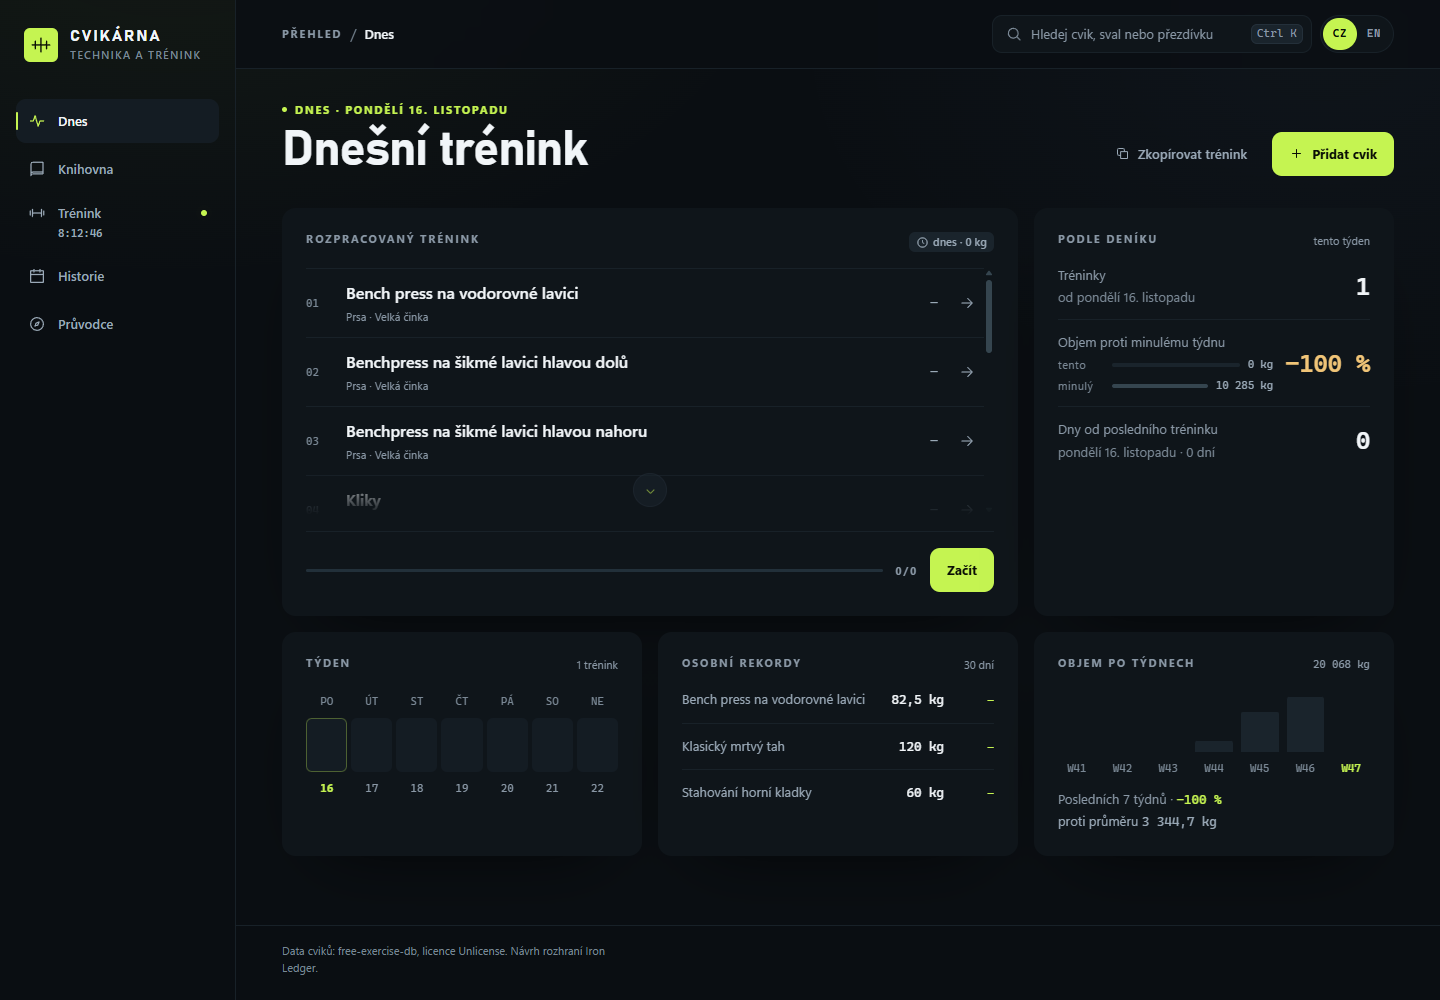
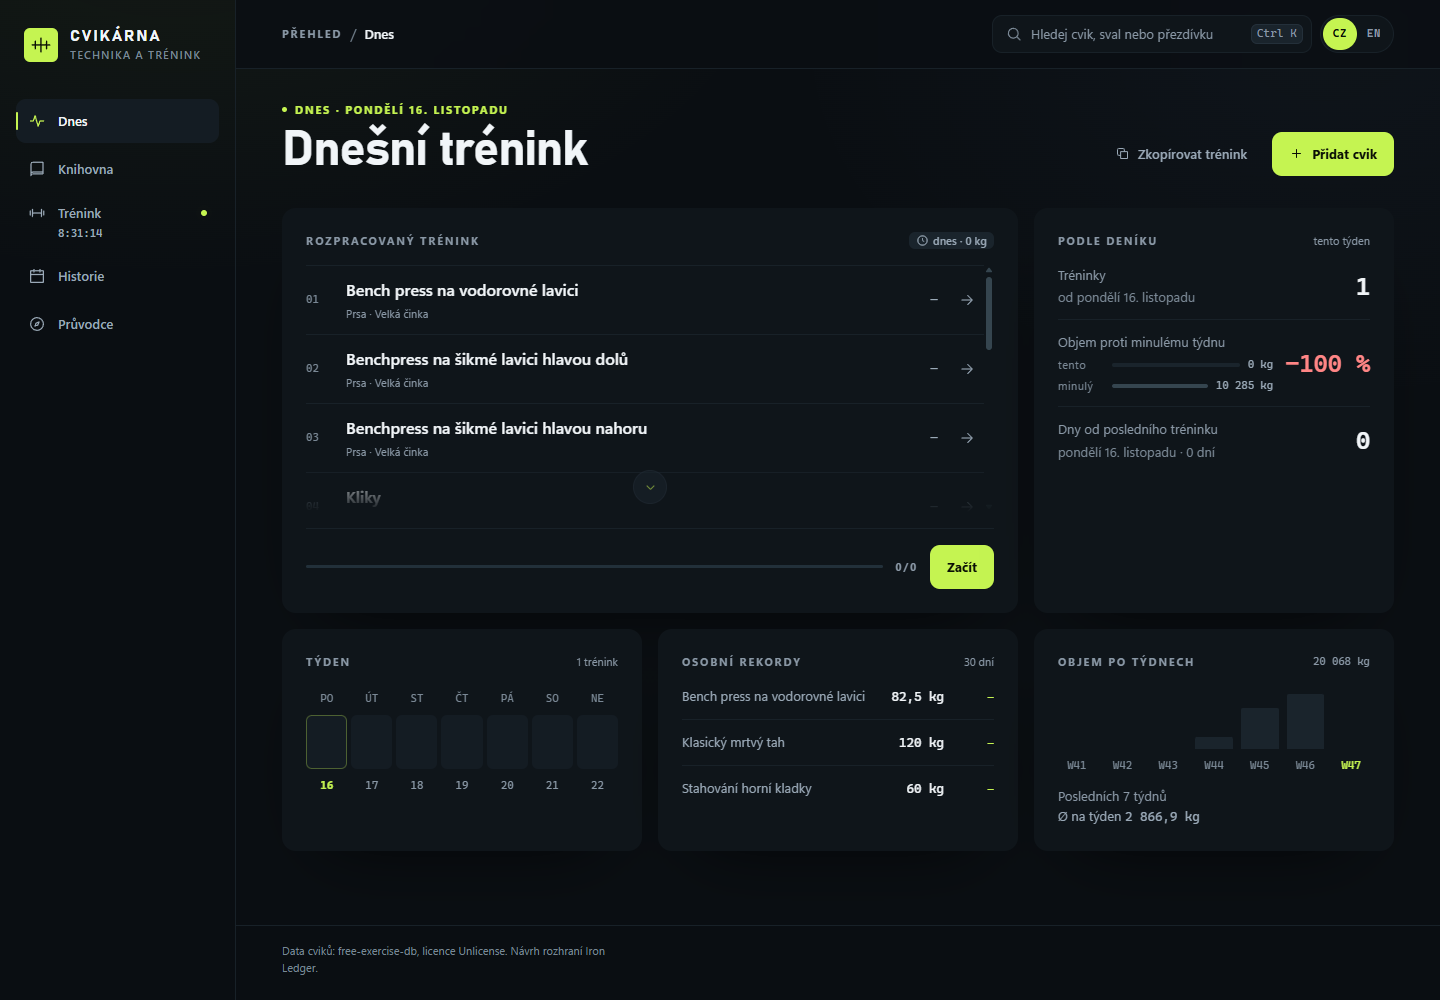
feat: settle the Dnes metrics and the month surface
- Drop the duplicate week-over-week delta from the volume panel; it carries the total and the average week instead
- Tint the one remaining delta from accent through amber to danger as it falls
- Centre the session head's volume pill on its label
- Paint the month list on the panel surface so empty months stop looking overlaid
- Give the dashboard tips focus parity and clear them on unmount

diff --git a/web/src/features/dashboard/DashboardPage.tsx b/web/src/features/dashboard/DashboardPage.tsx
@@ -78,20 +78,29 @@ export function DashboardPage() {
   const weeks = dashboard?.weeklyVolume ?? [];
   const maxVolume = Math.max(...weeks.map((row) => row.volume), 1);
   const weekTotal = weeks.reduce((sum, row) => sum + row.volume, 0);
-  const lastWeek = weeks[weeks.length - 1];
-  const previousAverage =
-    weeks.length > 1
-      ? weeks.slice(0, -1).reduce((sum, row) => sum + row.volume, 0) / (weeks.length - 1)
-      : 0;
-  const weekAverage = previousAverage;
-  const volumeDelta =
-    previousAverage > 0 && lastWeek ? ((lastWeek.volume - previousAverage) / previousAverage) * 100 : null;
   const delta =
     dashboard && dashboard.previousWeekVolume > 0
       ? ((dashboard.currentWeekVolume - dashboard.previousWeekVolume) / dashboard.previousWeekVolume) * 100
       : null;
+  // A rise reads in the accent, zero in plain ink, and a fall warms from amber
+  // to danger as it deepens. The sign and the number always carry the meaning.
+  const deltaTone =
+    delta === null
+      ? "is-none"
+      : delta > 0.5
+        ? "is-up"
+        : Math.abs(delta) <= 0.5
+          ? "is-flat"
+          : delta > -15
+            ? "is-warn"
+            : delta > -40
+              ? "is-mid"
+              : "is-down";
   const todayDate = new Date();
   const isTodayEmpty = !exercises.length;
+
+  // A tip anchored to a dashboard cell must not outlive the page it belongs to.
+  useEffect(() => () => closeTip(), [closeTip]);
 
   if (demoState === "loading" || todayPhase === "loading" || dashboardPhase === "loading") {
     return (
@@ -215,7 +224,7 @@ export function DashboardPage() {
                 {tx("Rozpracovaný trénink", "Session in progress")}
               </h2>
             </div>
-            <span className="tag">
+            <span className="tag dash__pill">
               <Icon name="i-clock" />
               <span>
                 {tx("dnes", "today")} · {fmt(totals.volume, lang)} kg
@@ -314,7 +323,7 @@ export function DashboardPage() {
             </li>
             <li>
               <span className="statrow__label">{tx("Objem proti minulému týdnu", "Volume vs. last week")}</span>
-              <span className={`statrow__value num ${delta !== null && delta >= 0 ? "is-up" : "is-down"}`}>
+              <span className={`statrow__value num ${deltaTone}`}>
                 {delta === null ? "—" : `${delta >= 0 ? "+" : "−"}${fmt(Math.abs(delta), lang)} %`}
               </span>
               <span className="statrow__note">
@@ -381,19 +390,19 @@ export function DashboardPage() {
                   ? ["PO", "ÚT", "ST", "ČT", "PÁ", "SO", "NE"]
                   : ["MO", "TU", "WE", "TH", "FR", "SA", "SU"];
               const isToday = day.date === isoDate(new Date());
+              const dayTip = day.hasSession
+                ? `${longDate(date, lang)}: ${fmt(day.volume, lang)} kg`
+                : `${longDate(date, lang)}: ${tx("žádný trénink", "no session")}`;
               return (
                 <li
                   className={`week__day${day.hasSession ? " is-done" : ""}${isToday ? " is-today" : ""}`}
                   key={day.date}
-                  onMouseEnter={(event) =>
-                    openTip(
-                      event.currentTarget,
-                      day.hasSession
-                        ? `${longDate(date, lang)}: ${fmt(day.volume, lang)} kg`
-                        : `${longDate(date, lang)}: ${tx("žádný trénink", "no session")}`,
-                    )
-                  }
+                  tabIndex={0}
+                  aria-label={dayTip}
+                  onMouseEnter={(event) => openTip(event.currentTarget, dayTip)}
                   onMouseLeave={closeTip}
+                  onFocus={(event) => openTip(event.currentTarget, dayTip)}
+                  onBlur={closeTip}
                 >
                   <span className="week__label">{labels[index]}</span>
                   <span className="week__track">
@@ -419,18 +428,19 @@ export function DashboardPage() {
                   record.previousBestWeightKg !== null
                     ? record.bestWeightKg - record.previousBestWeightKg
                     : null;
+                const recordTip =
+                  gain !== null && gain > 0
+                    ? `${name}: +${fmt(gain, lang)} kg ${tx("proti minulému rekordu", "over the previous record")}`
+                    : tx("První zapsaný rekord, nic staršího k porovnání", "The first record on file, nothing older to compare");
                 return (
                   <li
                     key={record.exerciseId}
-                    onMouseEnter={(event) =>
-                      openTip(
-                        event.currentTarget,
-                        gain !== null && gain > 0
-                          ? `${name}: +${fmt(gain, lang)} kg ${tx("proti minulému rekordu", "over the previous record")}`
-                          : tx("První zapsaný rekord, nic staršího k porovnání", "The first record on file, nothing older to compare"),
-                      )
-                    }
+                    tabIndex={0}
+                    aria-label={recordTip}
+                    onMouseEnter={(event) => openTip(event.currentTarget, recordTip)}
                     onMouseLeave={closeTip}
+                    onFocus={(event) => openTip(event.currentTarget, recordTip)}
+                    onBlur={closeTip}
                   >
                     <span className="ledger__name">{name}</span>
                     <span className="ledger__val num">{fmt(record.bestWeightKg, lang)} kg</span>
@@ -456,38 +466,35 @@ export function DashboardPage() {
             </span>
           </div>
           <div className="spark" role="img" aria-label={tx("Objem za posledních sedm týdnů", "Volume over the last seven weeks")}>
-            {weeks.map((row) => (
-              <span
-                className="spark__col"
-                key={row.start}
-                onMouseEnter={(event) =>
-                  openTip(
-                    event.currentTarget,
-                    row.volume > 0
-                      ? `${row.label}: ${fmt(row.volume, lang)} kg`
-                      : `${row.label}: ${tx("žádný objem", "no volume")}`,
-                  )
-                }
-                onMouseLeave={closeTip}
-              >
-                <span className="spark__plot">
-                  <span className="spark__bar" style={{ "--h": Math.round((row.volume / maxVolume) * 100) } as CSSProperties} />
+            {weeks.map((row) => {
+              const weekTip =
+                row.volume > 0
+                  ? `${row.label}: ${fmt(row.volume, lang)} kg`
+                  : `${row.label}: ${tx("žádný objem", "no volume")}`;
+              return (
+                <span
+                  className="spark__col"
+                  key={row.start}
+                  tabIndex={0}
+                  aria-label={weekTip}
+                  onMouseEnter={(event) => openTip(event.currentTarget, weekTip)}
+                  onMouseLeave={closeTip}
+                  onFocus={(event) => openTip(event.currentTarget, weekTip)}
+                  onBlur={closeTip}
+                >
+                  <span className="spark__plot">
+                    <span className="spark__bar" style={{ "--h": Math.round((row.volume / maxVolume) * 100) } as CSSProperties} />
+                  </span>
+                  <span className="spark__label">{row.label}</span>
                 </span>
-                <span className="spark__label">{row.label}</span>
-              </span>
-            ))}
+              );
+            })}
           </div>
           <p className="dash__volume-note" style={{ marginTop: "var(--space-3)" }}>
-            <span>
-              {tx("Posledních 7 týdnů", "Last 7 weeks")} ·{" "}
-              <span className="num dash__delta">
-                {volumeDelta === null
-                  ? "—"
-                  : `${volumeDelta >= 0 ? "+" : "−"}${fmt(Math.abs(volumeDelta), lang)}\u00a0%`}
-              </span>
-            </span>
+            <span>{tx("Posledních 7 týdnů", "Last 7 weeks")}</span>
             <span className="dash__avg">
-              {tx("proti průměru", "vs. average")} <span className="num">{fmt(weekAverage, lang)} kg</span>
+              {tx("Ø na týden", "Ø per week")}{" "}
+              <span className="num">{fmt(weekTotal / 7, lang)} kg</span>
             </span>
           </p>
         </section>

diff --git a/web/src/styles/global.css b/web/src/styles/global.css
@@ -1436,27 +1436,6 @@ svg {
   color: var(--accent);
 }
 
-.dash__volume-figure {
-  display: flex;
-  align-items: baseline;
-  gap: var(--space-2);
-  margin-top: var(--space-4);
-}
-
-.dash__volume-value {
-  font-family: var(--font-display);
-  font-size: var(--step-3);
-  font-weight: 700;
-  letter-spacing: -0.02em;
-  line-height: 1;
-}
-
-.dash__volume-delta {
-  color: var(--accent);
-  font-family: var(--font-mono);
-  font-size: var(--step--1);
-}
-
 .dash__volume-note {
   color: var(--fg-dim);
   font-size: var(--step--1);
@@ -5608,14 +5587,6 @@ svg {
   flex: 0 0 auto;
 }
 
-/* The session list takes the height of three rows at most. A short session
-   keeps a compact card; a long one scrolls instead of stretching the panels
-   beside it. */
-.session__scroll {
-  height: auto;
-  max-height: 207px;
-}
-
 /* 87: the guide reads down the right column. With a figure, the column is one
    block: the picture first, its caption, then the sources directly beneath.
    With no figure, the sources sit at the foot of the card, level with the end
@@ -5787,7 +5758,7 @@ svg {
   cursor: default;
 }
 
-.monthcue[disabled]:hover {
+.monthcue[disabled]:not(.monthcue--float):hover {
   border-color: var(--line);
   background: var(--surface-3);
 }
@@ -5796,13 +5767,6 @@ svg {
    rows and no sliver of a fourth shows at rest. */
 .session__row {
   height: 69px;
-}
-
-/* 103: a numeral in a larger size reads high when it is only box-centred on
-   smaller lowercase text, so it drops a pixel to sit on the same optical line. */
-.statrow__value {
-  position: relative;
-  top: 1px;
 }
 
 /* 104: the Dnes cue floats over the list's fade, so the next movement stays
@@ -5851,22 +5815,27 @@ svg {
 }
 
 @media (max-width: 767px) {
+  .statrow li {
+    grid-template-rows: auto auto auto;
+  }
+
   .statrow__value {
     grid-column: 1;
-    grid-row: auto;
+    grid-row: 2;
     justify-self: start;
+  }
+
+  .statrow__note {
+    grid-row: 3;
   }
 }
 
-/* 108: the delta reads as one figure, sign to percent, and names the average it
-   is measured against. */
+/* 108: the note is two quiet lines; the delta keeps its sign, number and
+   percent together in one accent token, and the line names what it measures
+   against. */
 .dash__delta {
   color: var(--accent);
   white-space: nowrap;
-}
-
-.dash__avg {
-  color: var(--fg-muted);
 }
 
 .dash__volume-note {
@@ -5876,4 +5845,60 @@ svg {
 
 .dash__avg {
   color: var(--fg-muted);
+}
+
+/* 111: the month list paints nothing of its own, so an empty month, one
+   session and a full one all read on the panel's surface. The separators are
+   the rows' own hairlines, not a background showing through gaps. */
+.monthlist {
+  gap: 0;
+  background: transparent;
+  border-radius: 0;
+}
+
+.monthlist .mrow {
+  border-bottom: 1px solid var(--line-soft);
+}
+
+.monthlist .mrow:last-child {
+  border-bottom: 0;
+}
+
+/* 112: the week-over-week value is tinted by how far it moved. Up is the
+   accent, zero is plain ink, and a fall warms from amber toward danger as it
+   deepens; the printed sign carries the meaning on its own. */
+.statrow__value.is-up {
+  color: var(--accent);
+}
+
+.statrow__value.is-flat {
+  color: var(--fg);
+}
+
+.statrow__value.is-none {
+  color: var(--fg-muted);
+}
+
+.statrow__value.is-warn {
+  color: var(--warn);
+}
+
+.statrow__value.is-mid {
+  color: color-mix(in srgb, var(--warn) 45%, var(--danger));
+}
+
+.statrow__value.is-down {
+  color: var(--danger);
+}
+
+/* 113: the session head's volume pill sits on the label's line, not on a
+   shared baseline that lifts a 24px pill above a 12px word. */
+.panel__head {
+  align-items: center;
+}
+
+.dash__pill {
+  display: inline-flex;
+  align-items: center;
+  line-height: 1;
 }

diff --git a/docs/STANDARDS.md b/docs/STANDARDS.md
@@ -34,7 +34,7 @@ colour. Check: `npm run lint:ui`.
 - The rail is 236px, 84px under 1200, hidden under 1024 where the tab bar takes over.
 - Content is capped at `--max` (1280px) and centred; the topbar hairline spans the whole main column while its contents stay inside the cap.
 - No horizontal scroll at 390, 820 or 1440 on any view. Check: Playwright `documentElement.scrollWidth === clientWidth` at all three widths.
-- A list that scrolls inside a card shows the down-arrow cue while rows remain, and never scrolls sideways. At the end the cue dims, stops bobbing and keeps its slot, so the card never changes height while scrolling. Check: `review only`.
+- A list that scrolls inside a card shows a down-arrow cue while rows remain, and never scrolls sideways. On Dnes the cue floats over the list's own fade, translucent at rest and solid on hover; in Historie it sits under the list in the flow. Neither one changes the list's height. Check: `review only`.
 - Every interactive element has a visible `:focus-visible` treatment and a 44px target on touch.
 
 ## Component inventory
@@ -59,7 +59,7 @@ The full class list and the gate live in `web/scripts/ui-inventory.json` and `np
 | `RestPopover` | time, sound tabs | open, saved | Trénink |
 | `ConfirmPopover` | small anchored | open, cancelled, run | Trénink, Historie, sheet |
 | `MenuPopover` | panel rows | open, closed by its trigger | Trénink |
-| `TipPopover` | one-line panel above its control | open, hover, focus | Trénink |
+| `TipPopover` | one-line panel above its control | open, hover, focus | Trénink, Dnes |
 | `Toast` | one bar | default, danger | all |
 | `StateViews` | loading, empty, error | the three states | every async area |
 | `MonthCalendar` | month grid | today, workout dot, selected | Historie |
@@ -112,8 +112,8 @@ Check: `review only`, every cell asserted by hand at 1440 and 390 in both langua
   10. It is never a dot scale and never a repeated text label, and its centre rides the centre of
   the numerals beside it rather than their baseline.
 - The dashboard's `Podle deníku` values sit under their own label below 768px, and above it each
-  number is vertically centred on the label that names it; a number is never alone at the far
-  right edge away from the text that describes it.
+  number is vertically centred on the row's whole text block, label and note together; a number is
+  never alone at the far right edge away from the text that describes it.
 - Saving is one control per card or row, and its shape states the click. A saved card is a small
   red cross in a circle; a saved catalogue row is a red cross, an unsaved one a lime plus.
 - The add-exercise sheet's Katalog tab hides what the library already holds, so it only answers
@@ -132,12 +132,12 @@ Check: `review only`, every cell asserted by hand at 1440 and 390 in both langua
   danger colour.
 - Copying a past session replaces today's without a question only when today is empty; otherwise it
   asks in the confirm popover, and Escape closes the question before the sheet.
-- Dnes names the session's action by what is left to do: `Pokračovat` while sets remain, `Upravit`
-  once every set is complete.
+- Dnes names the session's action by where it stands: `Začít` while no set is done,
+  `Pokračovat` once some are, `Upravit` when all are.
 - In the guide, a section with a figure puts it at the top of the right column and the sources
   directly beneath it, so the column reads as one block; a section with no figure puts the sources
   at the foot of the card, level with the end of the copy.
-- A scroll cue sits outside its list, under it in the flow, never over the rows it scrolls.
+- A scroll cue either sits under its list in the flow or floats over the list's own fade, and neither form changes the list's height.
 - A session reaches the log and the calendar only once a set in it is ticked; a draft with nothing
   lifted is not a past session, and the finish action drops the movements that never got a tick.
 - While a rest runs, the view reserves the floating timer's height, so the last row's controls can

diff --git a/README.md b/README.md
@@ -27,7 +27,7 @@ Cvikárna is a Czech-first gym app for building muscle with the equipment you ha
 
 ### Today
 
-Dnes opens with today's session: its exercises scroll inside the card with a down-arrow cue that keeps its place at the end of the list and dims there, so scrolling never changes the card's height. The footer carries the completed-set meter and the one action that matters. While sets remain it reads `Pokračovat`; once every set is done the same slot reads `Upravit`, because there is nothing left to continue. Beside it sit the week's session count, the volume against last week, the days since the last workout, the week strip, recent personal records and a seven-week volume spark. Every figure comes from the API, and each number sits on the optical line of the label that names it.
+Dnes opens with today's session: its exercises scroll inside the card under a down-arrow cue that floats over the list's own fade, translucent at rest and solid on hover, so the next movement stays half-visible behind it and the card never changes height. The footer carries the completed-set meter and the one action that matters: `Začít` while no set is done, `Pokračovat` once some are, `Upravit` when all are. Beside it sit the week's session count, the volume against last week tinted from accent to danger as it falls, the days since the last workout, the week strip, recent personal records and a seven-week volume spark whose head holds the total and whose note holds the average week. Hovering a day, a record or a bar names its number. Every figure comes from the API, and each number is centred on the text block that describes it.
 
 ![Cvikárna dashboard with the session card and the week's log](docs/images/dnes.png)
 
